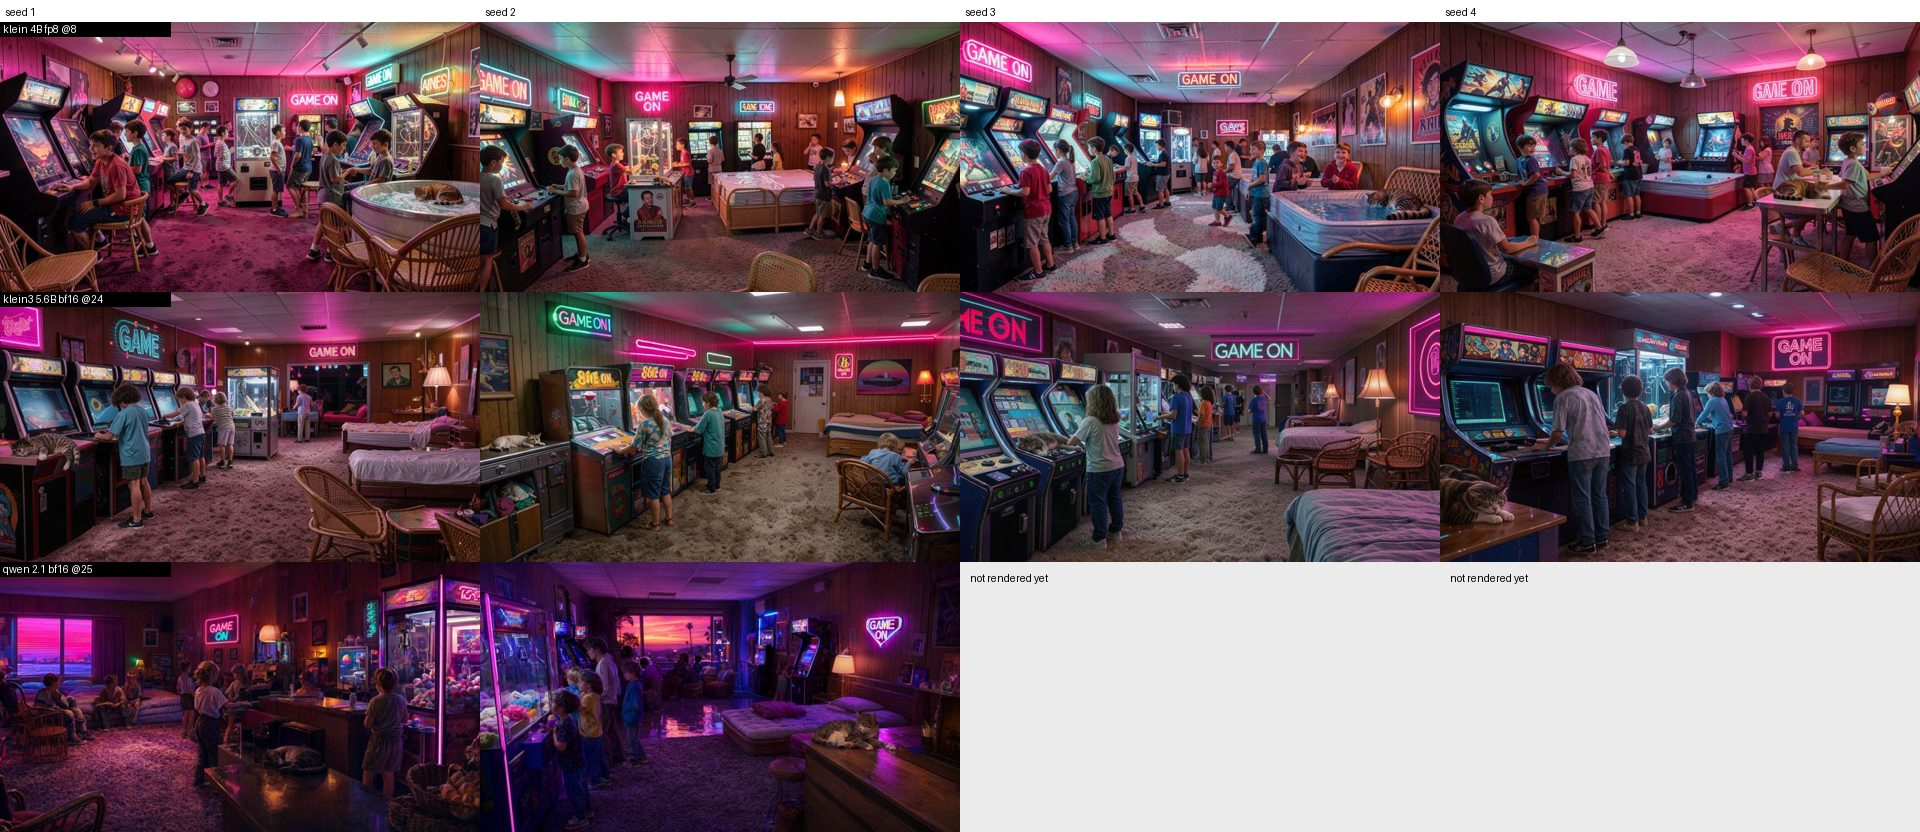
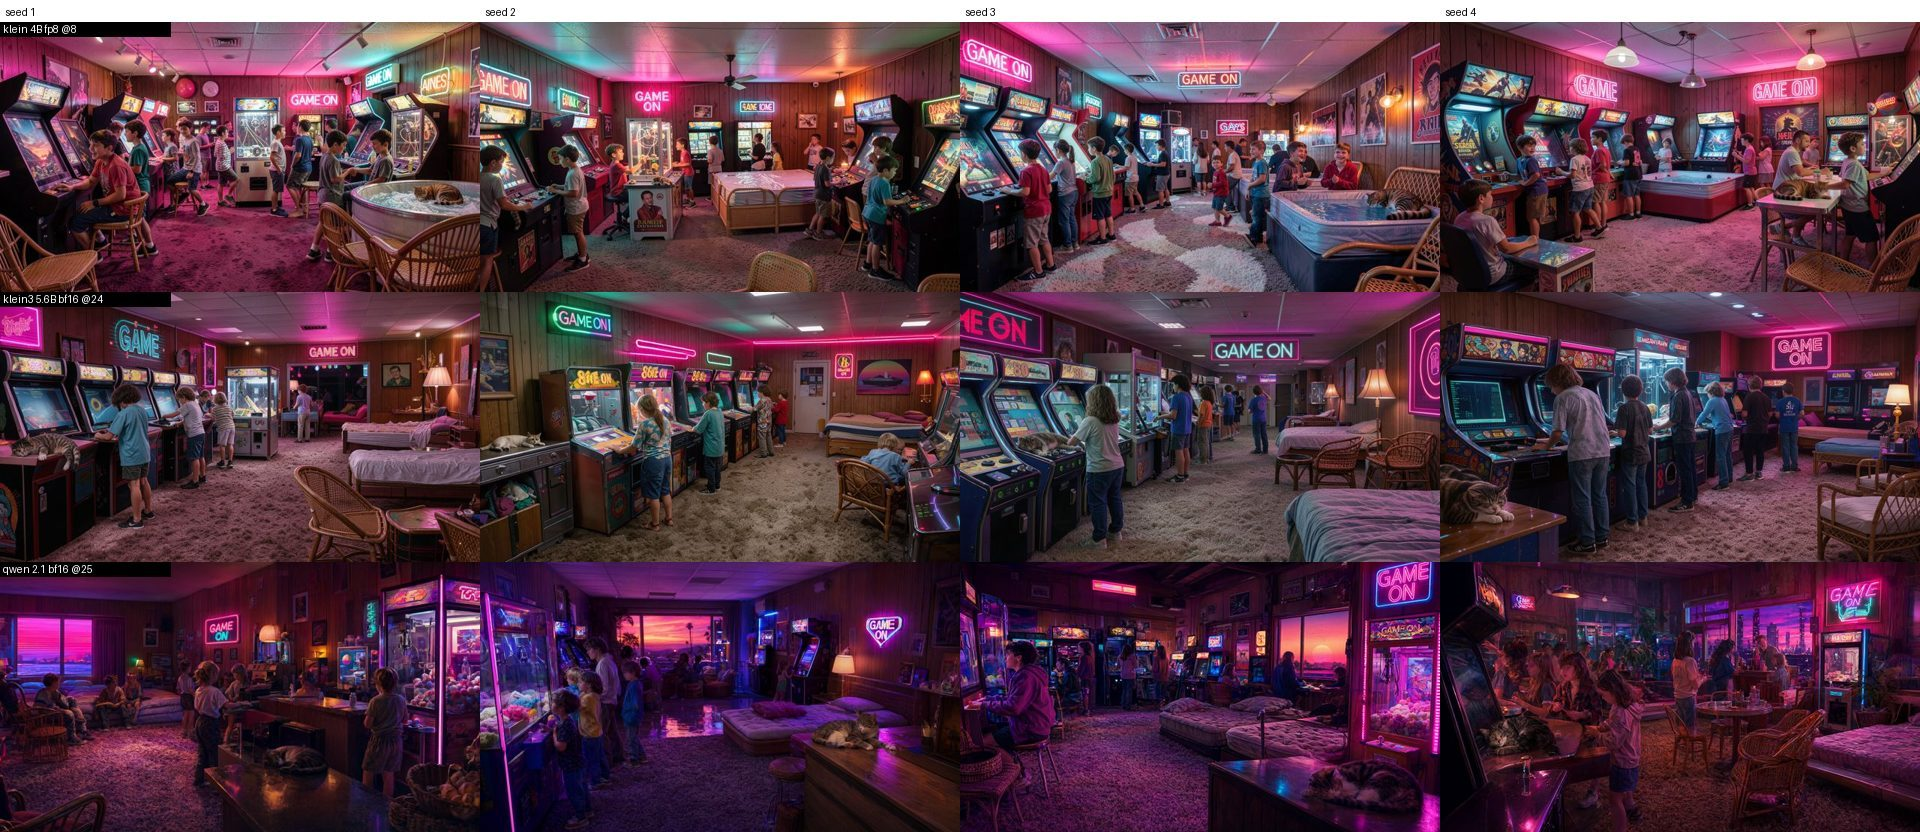
docs: complete qwen arcade and market grids, edit-path first look
Claude-Session: https://claude.ai/code/session_01SSNS8njmFKC4QLZgzg3GPc

Changed region(s): [[0.5, 0.6562, 1.0, 1.0]]

diff --git a/docs/model-comparison.md b/docs/model-comparison.md
@@ -60,7 +60,6 @@ per image with no pattern (something else was using the PC), so the warm klein3 
 uses about 7 GiB more RAM than klein, close to qwen's 22 GiB, which is near the soft `MemoryHigh=21G` in `comfy/limits.conf`.
 
 ### Final grids (rows: klein @8, klein3 @24, qwen @25; columns: seeds 1-4)
-A grey cell means that image has not been rendered yet.
 
 Cabin: `a cozy cabin by a misty fjord at dusk`
 ![cabin](model-comparison/cabin-final.jpg)
@@ -90,9 +89,14 @@ Market: `a busy harbour market at dawn, photorealistic documentary photograph, f
   a "cozy cabin" is (white farmhouse, red cabin, weathered veranda cabin). Slowest by far (150 to 300 s) and RAM maxed with swap. 25 to 40 steps is not much better (Þór).
 - **Overall:** no huge difference at first look (Þór), but klein vs klein3 do differ in feel. Not yet decided: see below.
 
+### Edit path (first look, Þór, 2026-11-28)
+`gen bakeoff` on the lil tulu ref, "wave with one tentacle" and "side view", klein vs klein3 vs qwen, 2 seeds each: klein3's edits were decent
+in 2 of 3 cases (one grew a stray tentacle out of the head); not yet compared at different step counts. The earlier #40 numbers for klein and qwen edits are
+in that issue. The steps pass and the rest of the edit comparison are follow-ups (see below).
+
 ### Not done yet
-- The qwen arcade and market cells for seeds 3 and 4, and the final tallies of visible artifacts per image (Þór counts from the grids: garbled text, duplicated doors, odd hands or faces, melted objects).
-- The edit comparison (`gen bakeoff PATH "instruction" -p klein,klein3,qwen`, #64 A) and the character-reference test (#4 in the test set).
+- The final tallies of visible artifacts per image (Þór counts from the grids: garbled text, duplicated doors, odd hands or faces, melted objects).
+- Edit comparison at tuned steps (needs `--steps` in edit-mode `gen bakeoff`, its own issue and thread) and the character-reference test (#4 in the test set).
 
 ## LoRA support and tooling
 A LoRA works for one model family only, so this can outweigh a small quality gap. Plan: a character LoRA used in
